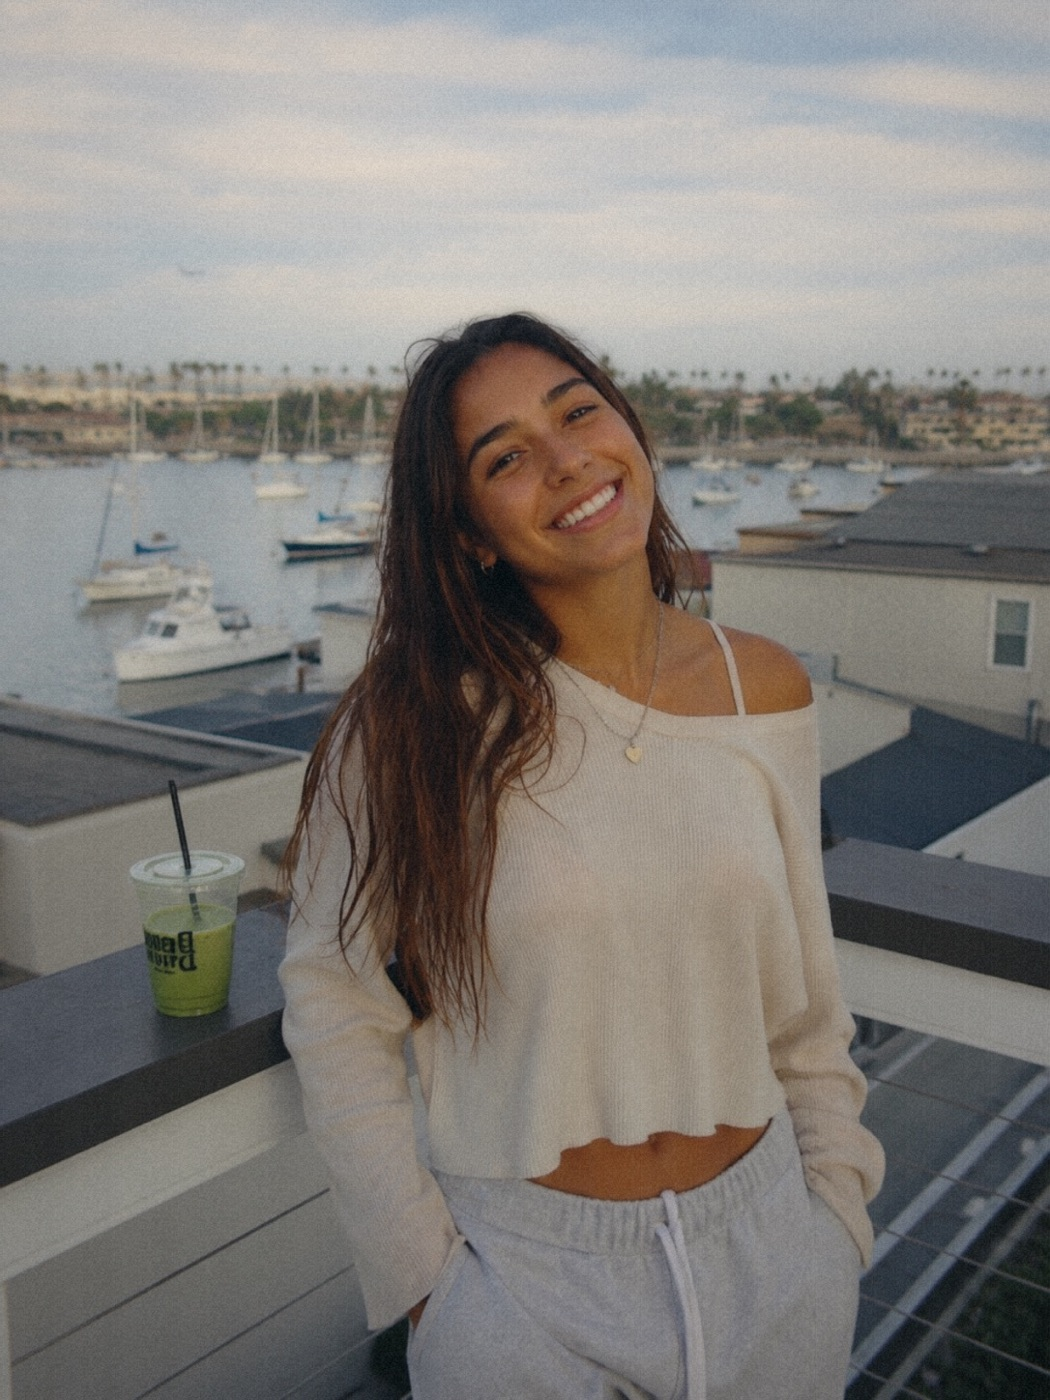
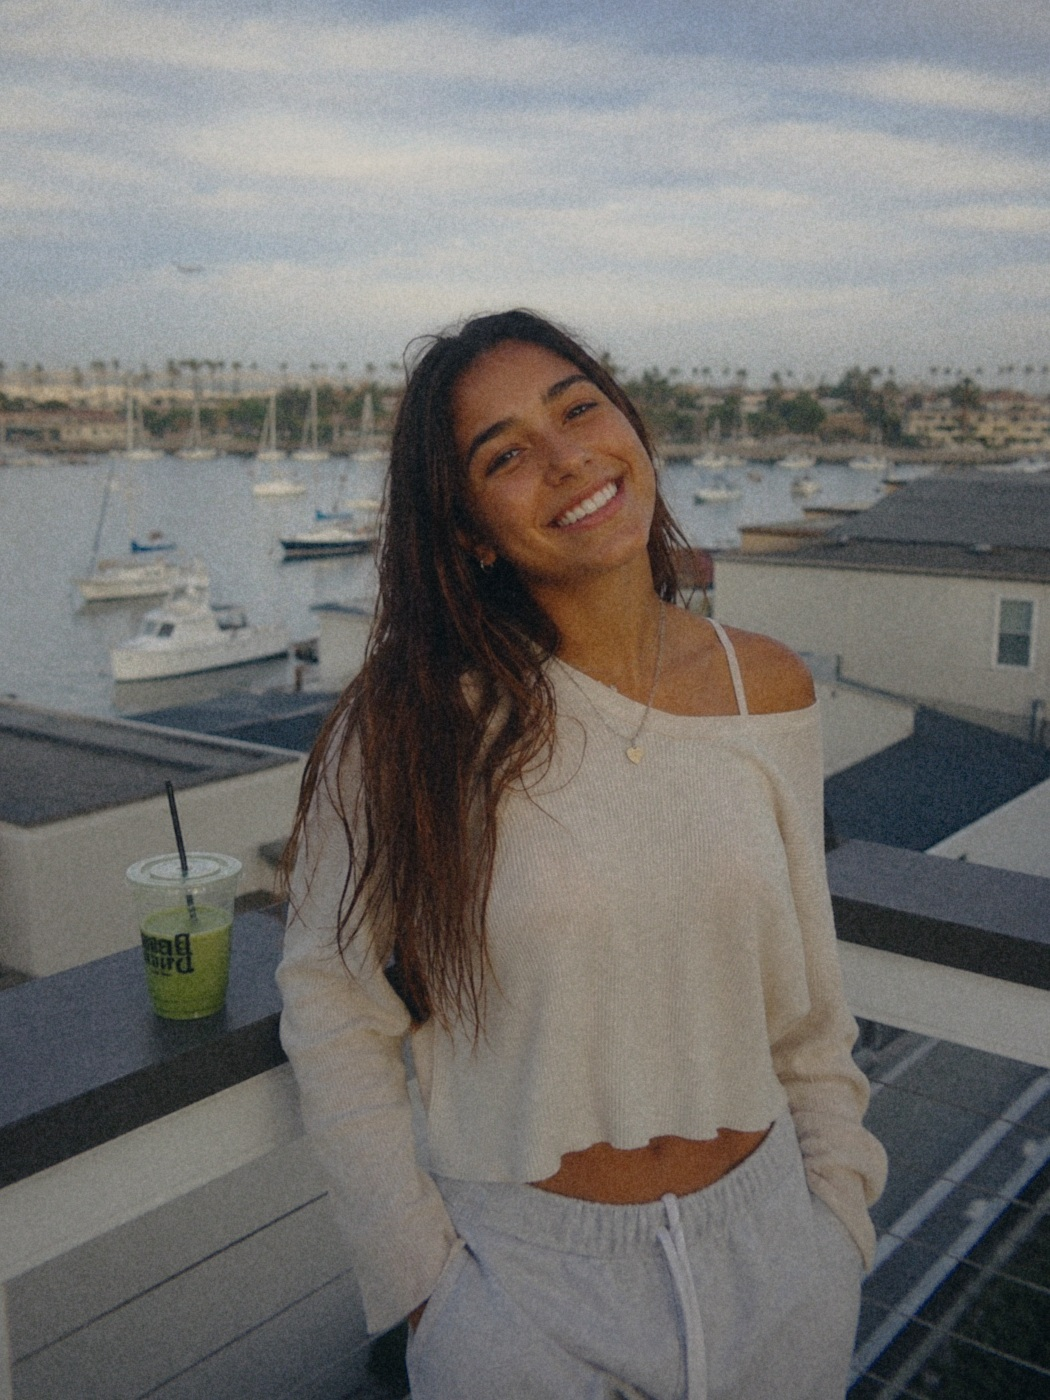
README for v2, regenerated examples, dim-scene amber, finer defaults
Rewrite the README around the v2 pipeline: the physical lens, glow and
film stages, the grain fix, per-shot options, the CPU reference renderer
and CI. Examples are regenerated, plus a date-stamp sample.

Dim frames now pick up a gentle amber cast alongside the extra grain,
since film never white balanced for lamps. Barrel distortion is trimmed
to about 1%, and grain is nudged up to v1's on-screen strength.

Claude-Session: https://claude.ai/code/session_017fPVc8G5iagiLmEwyZK1YU

diff --git a/MarennFilter.swift b/MarennFilter.swift
@@ -77,7 +77,7 @@ struct MarennParams {
     var gainB: Float = 1
 
     // plastic lens
-    var distortion: Float = 0.018      // barrel, corners kept in frame
+    var distortion: Float = 0.012      // a hint of barrel (about 1%), corners kept in frame
     var vigAmount: Float = 0.72        // blend toward natural cos^4 falloff
     var vigTanHalfFov: Float = 0.676   // 32 mm lens on a 36 x 24 mm frame
     var vigMech: Float = 0.10          // extra darkening right in the corners
@@ -95,6 +95,7 @@ struct MarennParams {
     var caP: Float = 1.25
     var hiBoost: Float = 1.5           // clipped light sources glow like the bright things they were
     var exposure: Float = 0.92         // linear trim so the optics land on the measured print density
+    var dimWarmth: Float = 0.06        // film has no white balance: lamp-lit dim scenes go amber
 
     // halation, veiling glare, highlight diffusion
     var halThreshold: Float = 0.55
@@ -111,7 +112,7 @@ struct MarennParams {
     var hiE1: Float = 0.80
 
     // grain
-    var grainAmount: Float = 0.019     // std before the print curve, for a 3024 px short side
+    var grainAmount: Float = 0.022     // std before the print curve, for a 3024 px short side
     var grainSigma: Float = 0.85       // dye cloud size in px at a 3024 px short side
     var grainRadius: Float = 2         // per photo
     var grainNorm: Float = 1           // per photo
@@ -305,9 +306,12 @@ final class MarennEngine {
         let warmDrift = (rng.unit() * 2 - 1) * 0.018 * v         // lab printing colour drift
         let tintDrift = (rng.unit() * 2 - 1) * 0.010 * v
         let g = powf(encodedGain, 2.2) * powf(2, expDrift) * base.exposure
-        p.gainR = g * (1 + warmDrift)
-        p.gainG = g * (1 + tintDrift)
-        p.gainB = g * (1 - warmDrift)
+        // dim frames were lit by lamps the film never balanced for
+        let dim = max(0, min(1, (0.30 - stats.p50) / 0.20))
+        let amber = base.dimWarmth * dim
+        p.gainR = g * (1 + warmDrift) * (1 + amber)
+        p.gainG = g * (1 + tintDrift) * (1 + 0.25 * amber)
+        p.gainB = g * (1 - warmDrift) * (1 - 1.2 * amber)
 
         // grain: sized to the frame, so a preview and a full capture look alike on screen
         let scale = p.minDim / 3024
@@ -334,7 +338,7 @@ final class MarennEngine {
             / (Float.pi * p.mottleSigma * p.mottleSigma / (3 * p.mottleCell * p.mottleCell)).squareRoot()
         p.grainAmount = options.grain ? base.grainAmount : 0
         // dim scenes were underexposed on the real roll, the lab printed them up, grain came along
-        p.grainPush = max(0, min(1, (0.30 - stats.p50) / 0.20))
+        p.grainPush = dim
 
         if let date = options.dateStamp {
             let c = Calendar(identifier: .gregorian).dateComponents([.year, .month, .day], from: date)
@@ -502,7 +506,7 @@ final class MarennEngine {
         float softGlobal, onset, defocusK, defocusP;
         float aniso, coma, axialR, axialB;
         float caOnset, caK, caB, caP;
-        float hiBoost, exposure;
+        float hiBoost, exposure, dimWarmth;
         float halThreshold, halKnee, halIntensity, halR, halG, halB;
         float veilAmount, bloomI, warmGlow, softAmt, hiE0, hiE1;
         float grainAmount, grainSigma, grainRadius, grainNorm;

diff --git a/Tools/marenn_cli.swift b/Tools/marenn_cli.swift
@@ -31,7 +31,7 @@ struct MarennCLI {
         "vigMech": \.vigMech, "softGlobal": \.softGlobal, "onset": \.onset, "defocusK": \.defocusK,
         "defocusP": \.defocusP, "aniso": \.aniso, "coma": \.coma, "axialR": \.axialR, "axialB": \.axialB,
         "caOnset": \.caOnset, "caK": \.caK, "caB": \.caB, "caP": \.caP, "hiBoost": \.hiBoost,
-        "exposure": \.exposure, "halThreshold": \.halThreshold, "halKnee": \.halKnee,
+        "exposure": \.exposure, "dimWarmth": \.dimWarmth, "halThreshold": \.halThreshold, "halKnee": \.halKnee,
         "halIntensity": \.halIntensity, "halR": \.halR, "halG": \.halG, "halB": \.halB,
         "veilAmount": \.veilAmount, "bloomI": \.bloomI, "warmGlow": \.warmGlow, "softAmt": \.softAmt, "hiE0": \.hiE0, "hiE1": \.hiE1,
         "grainAmount": \.grainAmount, "grainSigma": \.grainSigma, "mottleMix": \.mottleMix,

diff --git a/Tools/cpu/marenn_cpu.cpp b/Tools/cpu/marenn_cpu.cpp
@@ -81,9 +81,11 @@ static MarennParams frame_params(MarennParams p, int w, int h, Stats st, const O
     float warmDrift = (rng.unit() * 2 - 1) * 0.018f * v;
     float tintDrift = (rng.unit() * 2 - 1) * 0.010f * v;
     float g = std::pow(encGain, 2.2f) * std::pow(2.0f, expDrift) * base.exposure;
-    p.gainR = g * (1 + warmDrift);
-    p.gainG = g * (1 + tintDrift);
-    p.gainB = g * (1 - warmDrift);
+    float dim = std::max(0.0f, std::min(1.0f, (0.30f - st.p50) / 0.20f));
+    float amber = base.dimWarmth * dim;
+    p.gainR = g * (1 + warmDrift) * (1 + amber);
+    p.gainG = g * (1 + tintDrift) * (1 + 0.25f * amber);
+    p.gainB = g * (1 - warmDrift) * (1 - 1.2f * amber);
 
     float scale = p.minDim / 3024;
     float sigmaRaw = base.grainSigma * scale;
@@ -104,7 +106,7 @@ static MarennParams frame_params(MarennParams p, int w, int h, Stats st, const O
     p.mottleNorm = pixel_integral(mottleRaw) / pixel_integral(p.mottleSigma) /
                    std::sqrt(float(M_PI) * p.mottleSigma * p.mottleSigma / (3 * p.mottleCell * p.mottleCell));
     p.grainAmount = o.grain ? base.grainAmount : 0;
-    p.grainPush = std::max(0.0f, std::min(1.0f, (0.30f - st.p50) / 0.20f));
+    p.grainPush = dim;
 
     if (o.stampOn) {
         int yy = o.yy % 100, mm = o.mm, dd = o.dd;

diff --git a/README.md b/README.md
@@ -6,7 +6,7 @@
 
 <p align="center">
   The film look from <a href="https://relayyyy.com">Relay</a>, open source.<br>
-  Five Metal compute kernels, measured against real film. No LUTs, no dependencies.
+  A single-use camera in five Metal compute kernels. No LUTs, no dependencies.
 </p>
 
 <p align="center">
@@ -17,11 +17,9 @@
 
 ## What this is
 
-Every photo shot in the Relay app develops through exactly one filter. There are no presets and no strength slider. This repo is that filter, the shipped source, byte for byte.
+Every photo shot in the Relay app develops through exactly one filter. There are no presets and no strength slider. This repo is that filter.
 
-Marenn 400 was built by measuring real film scans, aligning them against digital captures of the same scenes, and fitting each stage of the pipeline until the color difference dropped to a few dE. One early finding shaped the whole thing: the look we were chasing has no geometric warp at all. It is color, optics, and grain, done carefully. Warm, never teal.
-
-Drag the sliders at [developer.relayyyy.com](https://developer.relayyyy.com) to see it on real photos.
+Marenn 400 started from measurement: real film scans aligned against digital captures of the same scenes, each stage of a pipeline fitted until the colour difference dropped to a few dE. That measured tone curve and colour grade are still the heart of it, unchanged. Version 2 rebuilds everything around them so the photo travels the way light does through a cheap single-use camera: out of the scene, through a moulded plastic lens, into 400 speed colour negative film, onto a print. Warm, never teal.
 
 | Original | Marenn 400 |
 | --- | --- |
@@ -30,51 +28,99 @@ Drag the sliders at [developer.relayyyy.com](https://developer.relayyyy.com) to 
 
 ## The pipeline
 
-The whole filter lives in one file, `MarennFilter.swift`. The Metal source is embedded as a string and compiled at runtime, so the Swift structs and the shader stay in one place and cannot drift apart. Five kernels run in sequence:
+The whole filter lives in one file, `MarennFilter.swift`. The Metal source is embedded as a string and compiled at runtime, so the Swift structs and the shader stay in one place and cannot drift apart. All kernels share one uniform struct, `MarennParams`. Five kernels run in sequence:
 
-1. **`marenn_grade`** does tone and color. A seven knot Hermite spline tone curve, cool shadow tint, warm midtone and highlight tints, global saturation, and a dedicated blue sky treatment that saturates, darkens, and hue shifts skies the way negative film renders them.
-2. **`marenn_clarity`** softens highlights. Bright regions get a gentle ring blur plus a touch of bloom, so highlights roll off instead of clipping.
-3. **`marenn_bright`** extracts the halation source. Everything above a luminance threshold, tinted toward the warm orange glow halation has on real stock.
-4. **`marenn_blur`** spreads that glow. Two separable Gaussian passes at half resolution, sized relative to the photo so the effect scales from thumbnails to full captures.
-5. **`marenn_composite`** models the lens and the stock. Screens the halation back in, then applies anisotropic edge defocus, chromatic aberration that grows toward the corners, a soft vignette, and two octave value noise grain weighted into the shadows.
+1. **`marenn_lens`** is the camera. The photo is decoded back to linear light and pushed through a 32 mm f/10 single element plastic lens: a hint of barrel distortion, lateral colour that grows toward the corners, axial colour (red and blue focus slightly behind green, so edges carry a faint fringe), field curvature with an astigmatic smear that runs radially, a touch of coma that gives corner highlights a comet tail, and the natural cos⁴ falloff of a wide simple lens. Working in light rather than in display values is what makes highlights spread and bloom the way they do on film.
+2. **`marenn_extract`** halves the frame and pulls out the halation source. Halation is light that crossed the whole emulsion and bounced back off the film base, so it is driven mostly by red, which reaches the bottom layer, and it exposes that red layer. Clipped areas are given back some of the brightness the sensor could not record, so lamps and the sun glow like the bright things they were.
+3. **`marenn_down`** builds a glow pyramid with a 13 tap filter, down to about 16 px on the short side.
+4. **`marenn_up`** folds the pyramid back up, weighting each level separately for the veiling glare of an uncoated lens and for halation. Levels are counted from the coarsest, so the glow keeps the same size relative to the frame at any resolution.
+5. **`marenn_film`** develops and prints. Highlights melt slightly into their surroundings, the lens glare and the red halation spill are added, the film shoulder rolls highlights off, grain is grown in the negative, the measured Marenn print curve and grade are applied, the measured print bloom warms bright areas, and the result is dithered to 8 bits so skies never band.
 
-Exposure is scene adaptive. Before the GPU work starts, the filter builds a luminance histogram of the actual photo and derives a gain from the median, clamped to a sane range. A dim indoor shot and a noon beach shot both land on the same roll.
+The print stage is the original measured look: a seven knot Hermite spline tone curve, cool shadow tint, warm midtone and highlight tints, global saturation, and the blue sky treatment that saturates, darkens and hue shifts skies the way negative film renders them.
 
-One honest warning: the parameter defaults in `GradeP`, `ClarityP`, `BrightP`, and `CompP` look like magic numbers because they are. They are the measured, shipped values. Tuning them is the fun part, but the defaults are the Relay look.
+Exposure is scene adaptive. Before the GPU work starts, the filter builds a luminance histogram of the photo and derives a gain from the median, clamped to a sane range. A dim indoor shot and a noon beach shot both land on the same roll. Dim frames also get what a real roll would have given them: a little extra grain where the lab printed the shadows up, and a gentle amber cast, because film never white balanced for lamps.
+
+### Grain
+
+Version 1 built grain from two octaves of value noise on a square lattice. Its spectrum was a box with bright horizontal and vertical lines through it, which shows up as faintly linear, blocky texture, and it was identical in all three channels. Version 2 grows grain the way the gaussian limit of a physical grain model says it should look (Newson et al., *Realistic Film Grain Rendering*, 2017):
+
+- **No lattice.** Per-pixel PCG noise, gaussian filtered, plus a trace of sparse jittered clumps. The spectrum is round and neighbouring pixels correlate equally in every direction.
+- **Mostly shared, a little per layer.** Each dye layer gets a small independent share, the blue sensitive layer a bit more, as on real colour negative.
+- **Shaped by the print.** Grain is added in the negative, before the print curve, so the curve's slope does what a print does: strongest in the midtones, quieter in the highlights.
+- **Sized to the frame.** A pixel shows grain integrated over its area. When a dye cloud would be smaller than a pixel it is drawn at pixel size and scaled so the pixel-integrated strength matches, so a 1000 px preview and a 24 MP capture look alike on a phone screen (measured within 8 percent).
+
+One honest warning remains true: the defaults in `MarennParams` look like magic numbers because they are. The print stage values are the measured ones. The lens and film values were tuned by eye against real single-use camera behaviour. Tuning them is the fun part, but the defaults are the Relay look.
+
+## Per-shot quirks
+
+The look has no knobs. The camera has a few quirks, passed per photo through `MarennOptions`:
+
+```swift
+var options = MarennOptions()
+options.seed = 42                    // fix the grain field and frame character; nil rolls a new frame
+options.dateStamp = Date()           // burn in an orange '26 11 21 imprint, like an old date back
+options.lightLeak = 0.5              // 0...1, a warm leak from the film door; off by default
+options.frameVariation = 1           // 0...1, small exposure and colour drift between frames
+let developed = MarennFilter.apply(to: photo, options: options)
+```
+
+The date imprint is exposed into the film, not drawn on top: it glows, halates and carries grain, and like the real thing it all but disappears on bright backgrounds.
+
+<p align="center">
+  <img src="Examples/datestamp-surf.jpg" width="360" alt="The surf photo with a date imprint">
+</p>
 
 ## Try it from the command line
 
-`Tools/marenn_cli.swift` is a small macOS harness that reads the Metal source straight out of `MarennFilter.swift` and runs the real pipeline on any image. No Xcode project needed:
+`Tools/marenn_cli.swift` is a small macOS tool that compiles together with the filter itself, so it runs exactly the engine the app ships. No Xcode project needed:
 
 ```
-swiftc -O Tools/marenn_cli.swift -o marenn
-./marenn MarennFilter.swift beach.jpg out.png
+swiftc -O -parse-as-library MarennFilter.swift Tools/marenn_cli.swift -o marenn
+./marenn beach.jpg out.png
 ```
 
 Options:
 
 ```
---seed N      fix the grain seed for repeatable output
---nograin     disable grain entirely
+--seed N            fix the grain field and frame character (default 3)
+--random            roll a fresh frame every run
+--nograin           develop without grain
+--stamp [DATE]      date imprint, YYYY-MM-DD, default today
+--leak X            light leak strength, 0...1
+--variation X       frame to frame drift, 0...1 (default 1)
+--set field=value   override any MarennParams field, e.g. --set grainAmount=0.03
 ```
 
-It prints the computed exposure gain and scene median for each photo, which is handy when you start tuning.
+## No Mac? The CPU reference renderer
+
+`Tools/cpu` runs the same Metal source on an ordinary CPU. A small header (`metal_stdlib`) gives clang just enough of the Metal Shading Language, `msl2cpp.py` lifts the shader out of `MarennFilter.swift` and reads every default straight from the Swift struct, and `marenn_cpu.cpp` mirrors the host code. It needs clang, Python, numpy and Pillow:
+
+```
+python3 Tools/cpu/marenn.py beach.jpg out.png --stamp 2026-11-21
+```
+
+It is exact enough to trust: on Apple silicon the GPU and CPU renders of the examples differ by 0.03 to 0.06 levels on average, never more than 1.
 
 ## Use it in an app
 
-`MarennFilter.swift` as shipped targets iOS (UIKit in, UIKit out):
+`MarennFilter.swift` targets iOS (UIKit in, UIKit out):
 
 ```swift
 let developed = MarennFilter.apply(to: photo)
 ```
 
-The engine underneath (`MarennEngine`) works on `CGImage` and has no UIKit in its core path, so porting to macOS or an offline renderer mostly means swapping the entry point. The CLI harness is proof of that.
+The engine underneath (`MarennEngine`) works on `CGImage` and has no UIKit in its core path. UIKit is behind `#if canImport(UIKit)`, which is why the same file builds into the macOS command line tool.
+
+## Validation
+
+Every push runs `.github/workflows/validate.yml` on a macOS runner. It compiles the embedded shader with Apple's Metal compiler for iOS and macOS with warnings as errors, type-checks the file against the iOS SDK, builds the command line tool, renders the examples on the GPU, and diffs them against the CPU reference.
 
 ## Repo layout
 
 ```
 MarennFilter.swift      the filter, Swift host code + embedded Metal source
-Tools/marenn_cli.swift  macOS command line harness
+Tools/marenn_cli.swift  macOS command line tool, built together with the filter
+Tools/cpu/              CPU reference renderer for machines without Metal
 Examples/               before and after samples used in this README
 LICENSE                 GPL-3.0
 ```
